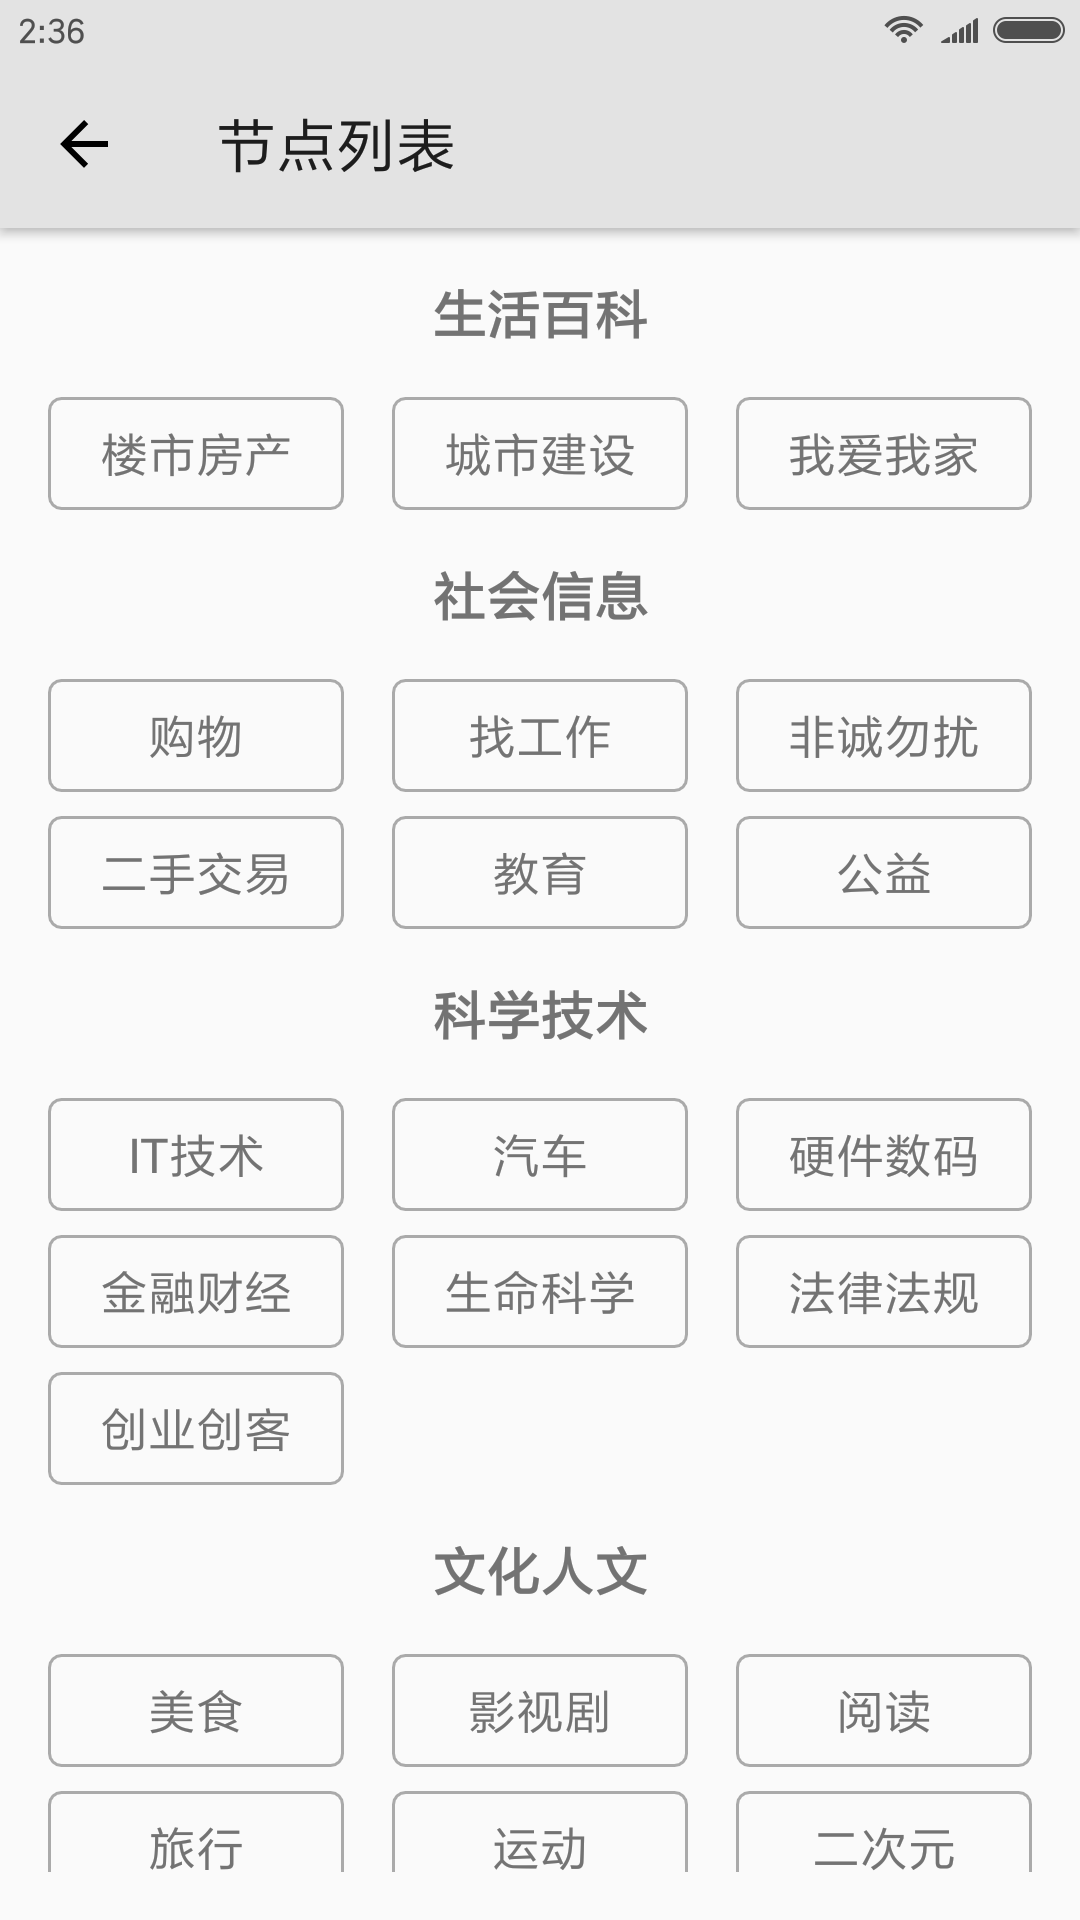
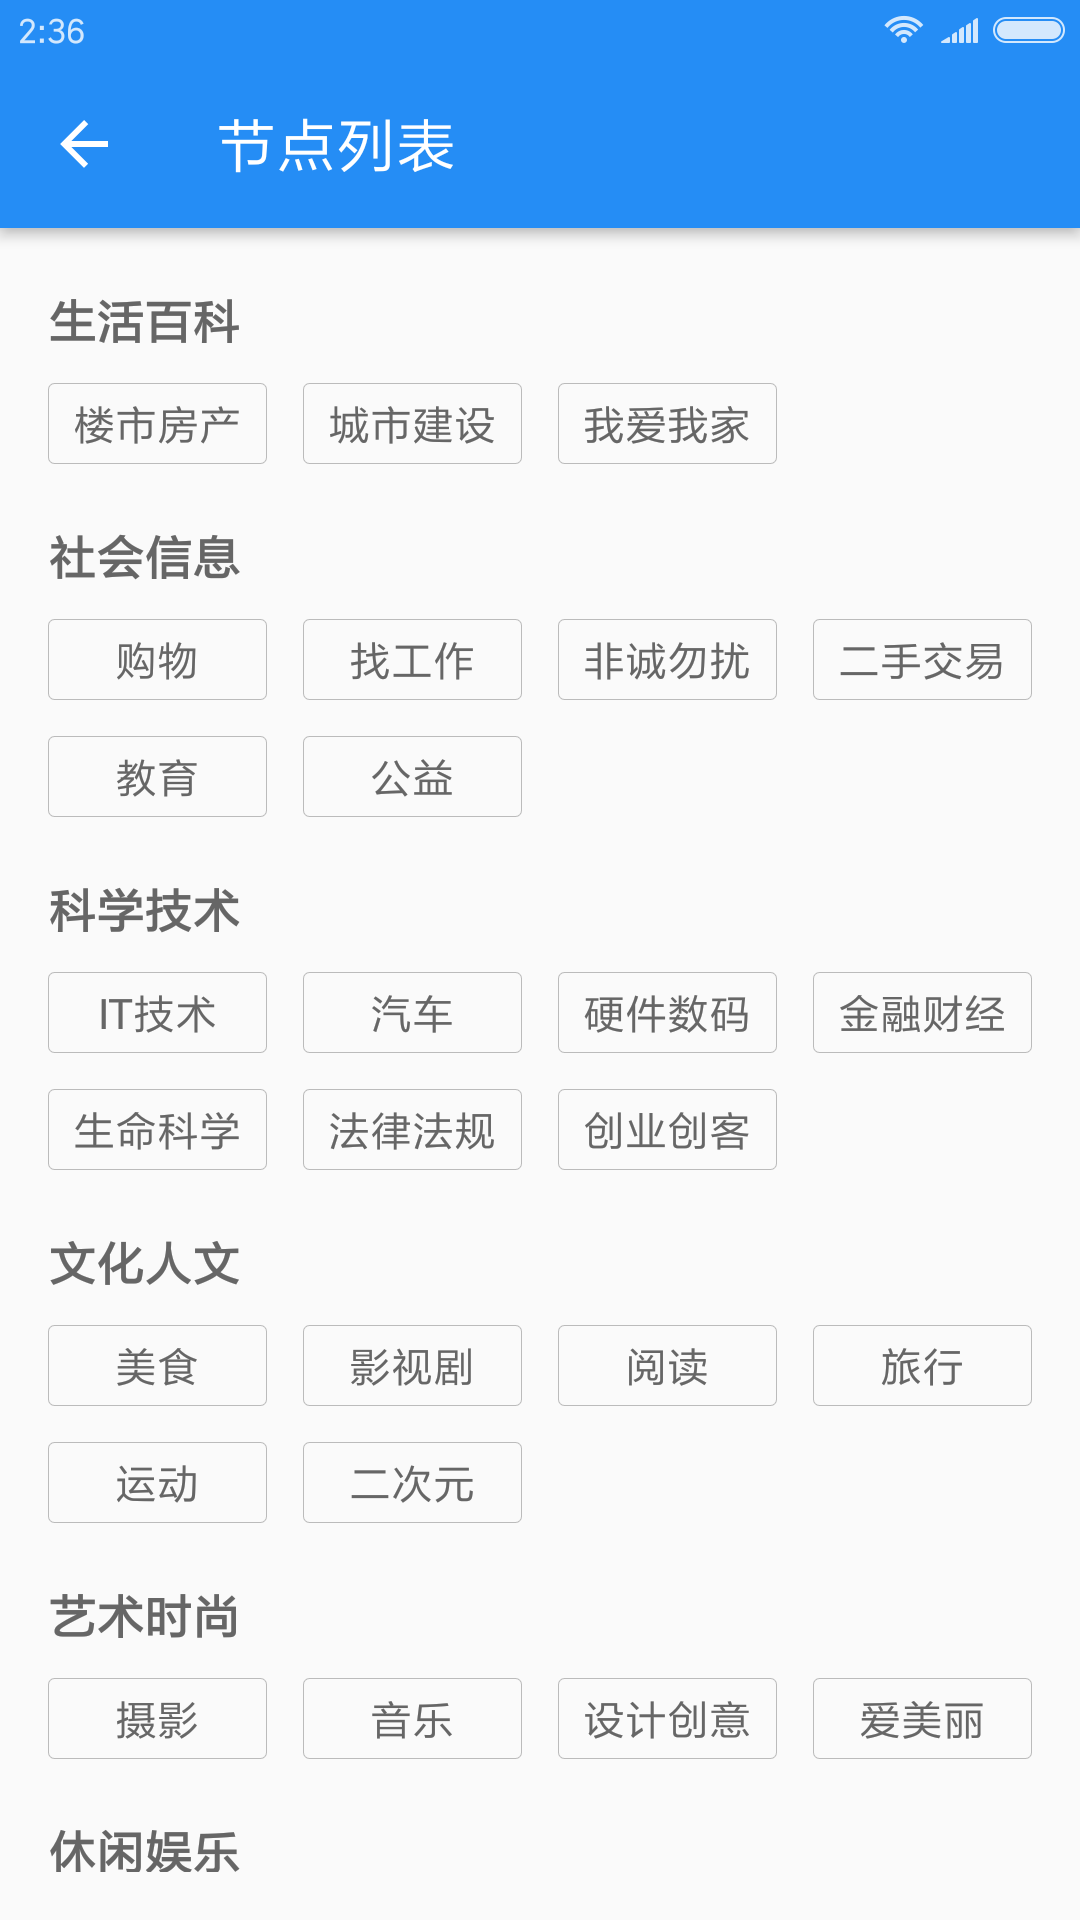
Publish v2.0.122

diff --git a/README.md b/README.md
@@ -18,6 +18,15 @@
 
 ## 版本说明
 
+### v2.0.122
+
+更新说明：
+
+1. UI 设计师 colinlee 童鞋带来的全新界面风格与交互体验
+2. 更“光谷”的 ICON
+3. 新增关注/取消关注社友功能
+4. 新增对评论点赞功能
+
 ### v1.3.85
 
 更新说明：
